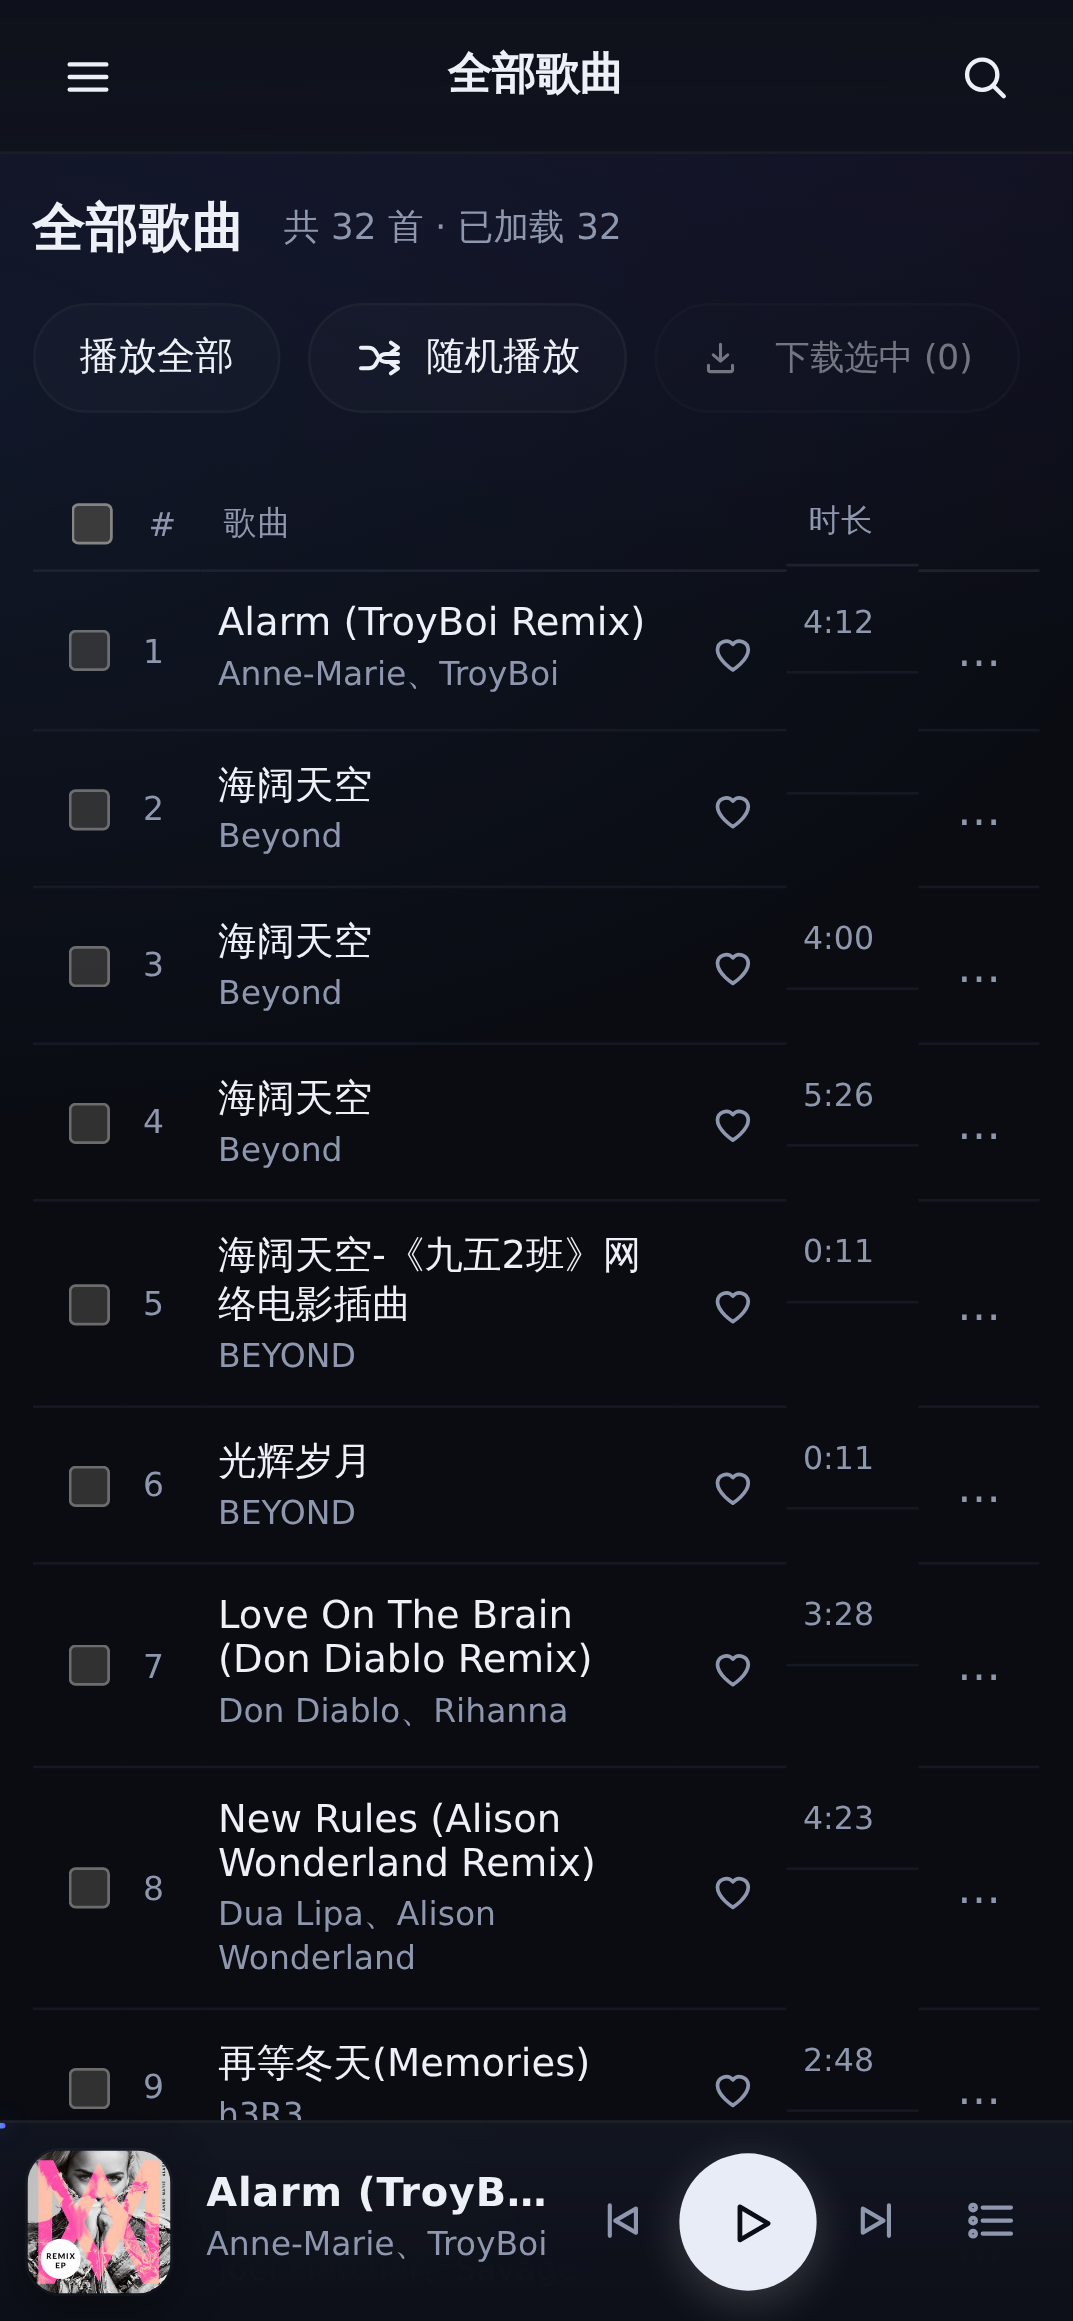
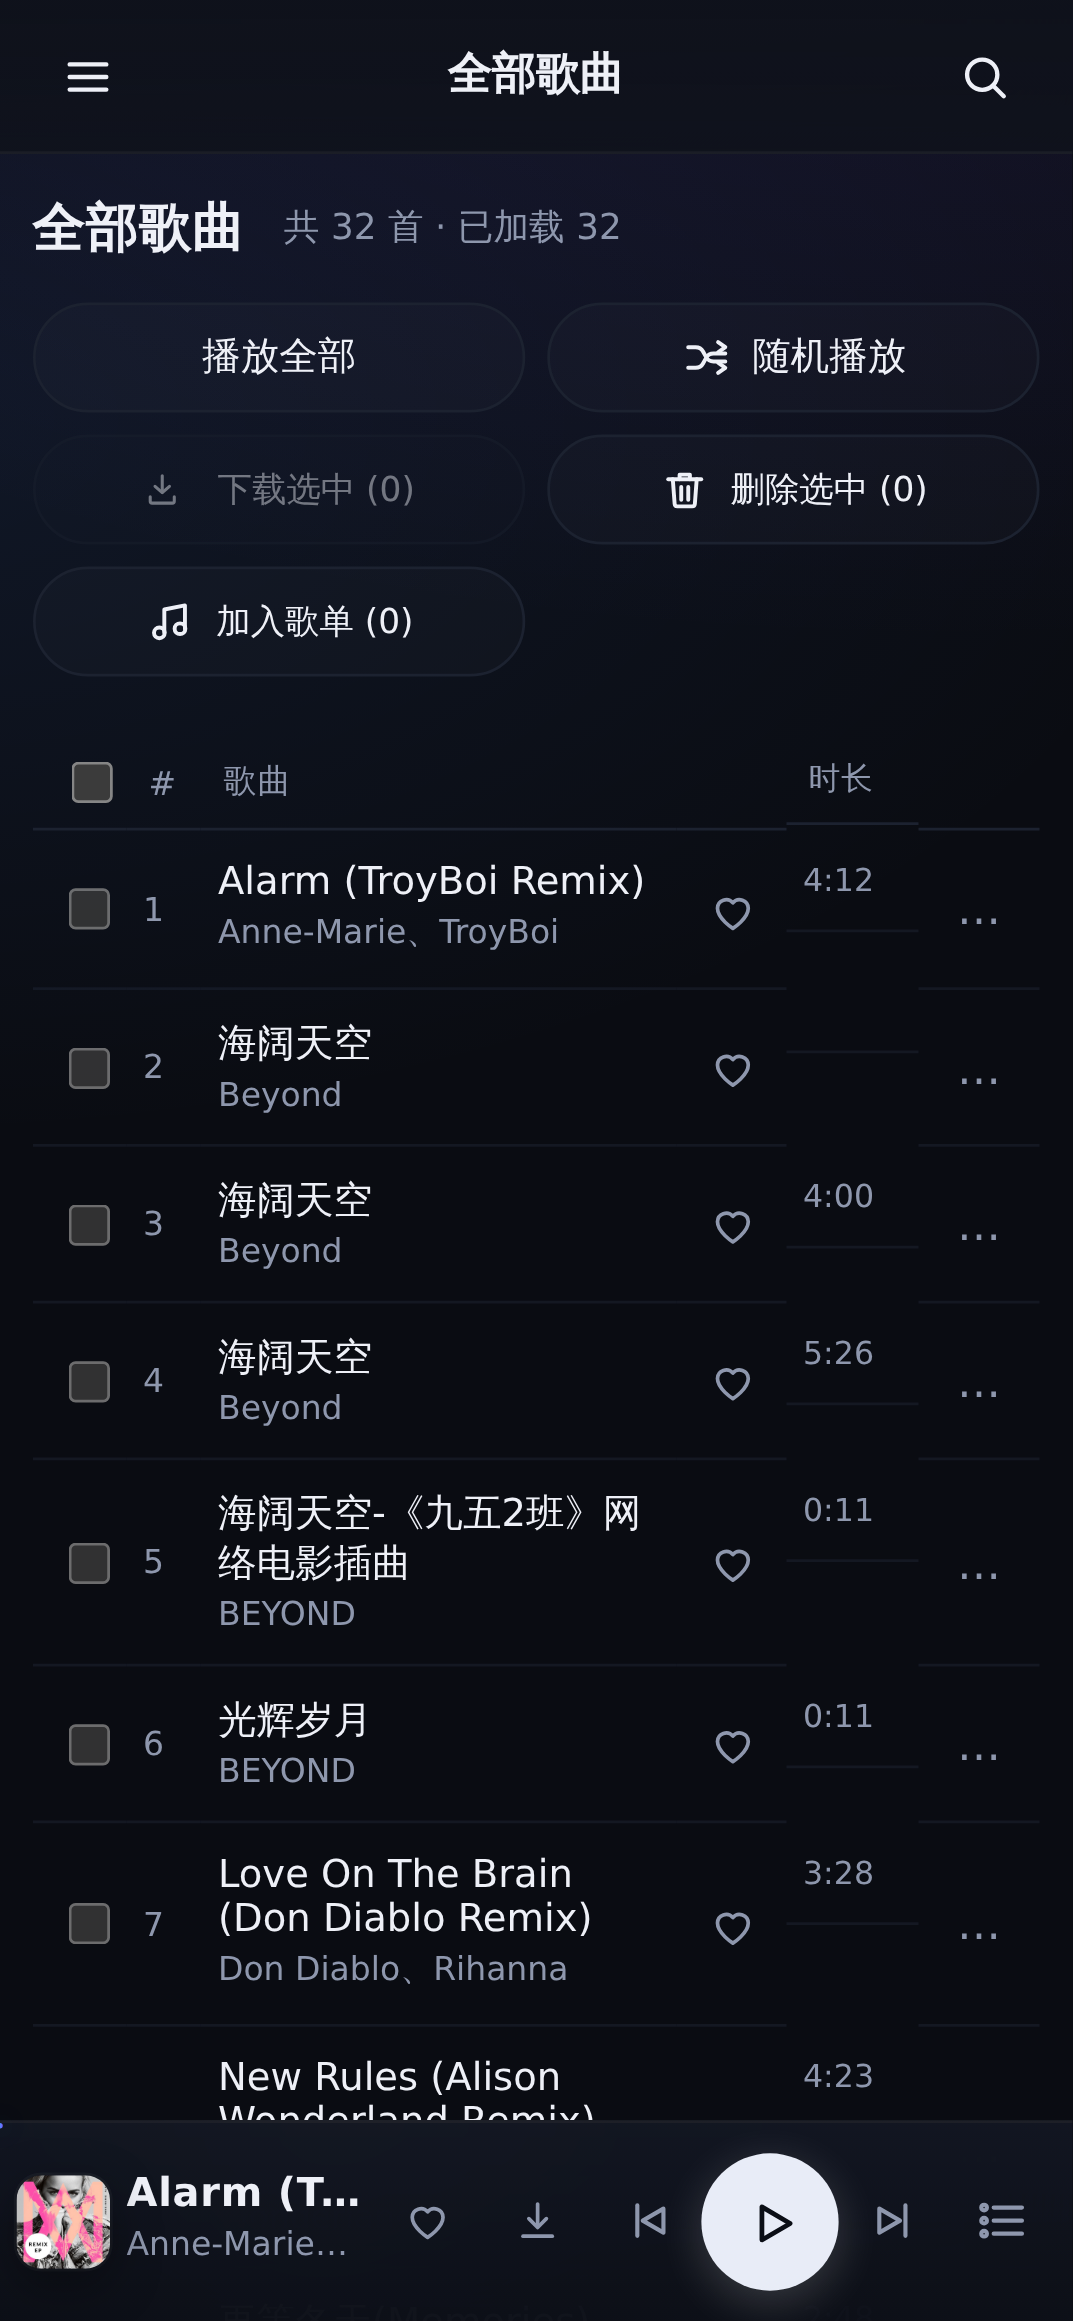
fix(ui): 手机端底栏保留收藏/下载改压封面、页头按钮改回两列网格
按主人 2026-09-15 的两处反馈调整（此前两案都曾提请确认）：

- 底栏（≤480px）：不再把 #np-love / #np-download 藏进播放页，改为压缩封面 +
  收紧间距把宽度还给歌名。实测封面 52→34px、.np gap 13→6px、.player 内边距
  18→6px、两键 40→34px、.ctrls gap 2→0；390px 下歌名区 36→86px，414px→110px。
  ≤380px 再压一档（封面 30px、.np gap 5、传输键 36/42），360px 歌名区 81px，
  320px 41px——320px 是 4 传输键 + 2 功能键并存的物理下限，再宽只能靠砍按钮。
  两键压到 34px 但仍守 e2e-responsive.py 的 34px 触控下限。
  .np-eq 角标随封面缩到 17px，否则会盖住半个封面。
- 页头操作按钮组（≤560px）：单行横滑改回等宽两列网格（grid 2×N，gap 8px），
  按钮一眼看全不必横向找；单按钮页面用 :only-child 占满整行。实测 5 个按钮
  排 3 行、每行 2 个（390px 每格 179px，320px 144px），scrollWidth==clientWidth
  不再横向滚动，页头高度代价 40→136px（主人已接受）。

- e2e-responsive.py 增补 12 条断言并改造底栏断言：两列网格不横向滚动 + 每行≤2 个
  + 三种宽度档位的歌名区下限 + 封面压缩上限 + 「底栏保留收藏/下载入口」（防止
  以后有人为了歌名宽度又把按钮藏回去）。96 → 113 通过 / 0 失败；
  tools/e2e-fm.py 45 通过 / 0 失败（回归无影响）。

注意：edit_file 会把整个文件行尾归一化为 LF，app.css 已用 python 转回 CRLF
（CRLF=1131 loneLF=0）后再提交。

diff --git a/ui/app/assets/app.css b/ui/app/assets/app.css
@@ -1012,24 +1012,37 @@ button, .icon-btn, .chip, .btn, .otab { -webkit-user-select: none; user-select: 
 
 /* —— 7.4 手机端操作按钮：等宽两列网格 + 触屏复选框放大 —— */
 @media (max-width: 560px) {
-  /* 批量操作收成单行横滑（与在线源 chips / Tab 同一套手势），不再占三行高度 */
-  /* 注意：横滑容器不能用 flex-end 对齐——溢出到左侧的按钮会滚不到（Chrome 不计入 scrollWidth） */
-  .page-head .btns { width: 100%; flex-wrap: nowrap; justify-content: flex-start; overflow-x: auto;
-    -webkit-overflow-scrolling: touch; scrollbar-width: none; padding-bottom: 2px; }
-  .page-head .btns::-webkit-scrollbar { display: none; }
-  .page-head .btns .btn { flex: 0 0 auto; padding: 9px 16px; min-height: var(--tap); }
+  /* 主人 2026-09-15 决定：不用单行横滑，改回整齐两列 —— 按钮一眼看全，不必在页头里横向找 */
+  /* 用 grid 而非 flex 换行：grid 的行列由轨道决定，不会再出现右对齐参差的阶梯状留白 */
+  .page-head .btns { display: grid; grid-template-columns: repeat(2, minmax(0, 1fr));
+    gap: 8px; width: 100%; justify-content: stretch; }
+  /* 只有一个按钮时占满整行，否则会孤零零地停在左半边 */
+  .page-head .btns > .btn:only-child { grid-column: 1 / -1; }
+  .page-head .btns .btn { width: 100%; padding: 9px 10px; min-height: var(--tap); white-space: nowrap; }
   input[type=checkbox] { width: 18px; height: 18px; }
 }
 
-/* —— 7.5 超窄屏底栏：收藏/下载移入播放页（#lyric-full 各有一个），歌名不再被挤成一两个字 —— */
-@media (max-width: 480px) { #np-love, #np-download { display: none; } }
+/* —— 7.5 ≤480px 底栏：不藏按钮，改用「压缩封面 + 收紧间距」把宽度还给歌名 —— */
+/* 主人 2026-09-15 决定：保留收藏/下载，换压缩封面方案 */
+@media (max-width: 480px) {
+  .player { padding: 0 6px; gap: 4px; }
+  .ctrls { gap: 0; }
+  .np { gap: 6px; }
+  .np-cover { width: 34px; height: 34px; border-radius: 9px; }
+  /* 收藏/下载：压缩但仍守住 34px 触控下限（e2e-responsive.py 的下限断言） */
+  #np-love, #np-download { width: 34px; height: 34px; flex-shrink: 0; }
+  #np-love svg, #np-download svg { width: 17px; height: 17px; }
+  /* 封面缩小后播放中角标按比例收一档，否则会盖住半个封面 */
+  .np-eq { width: 17px; height: 17px; right: -4px; bottom: -4px; }
+  .np-eq i { width: 2.5px; }
+}
 
-/* —— 7.6 320~380px：底栏再压缩一档，歌名区不至于只剩两个字 —— */
+/* —— 7.6 320~380px：封面/间距再压一档，传输键收到 36/42（仍 ≥34px 触控下限） —— */
 @media (max-width: 380px) {
-  .np-cover { width: 46px; height: 46px; border-radius: 11px; }
-  .np { gap: 10px; }
-  .icon-btn { width: 38px; height: 38px; }
-  .icon-btn.play { width: 46px; height: 46px; }
+  .np-cover { width: 30px; height: 30px; border-radius: 8px; }
+  .np { gap: 5px; }
+  .icon-btn { width: 36px; height: 36px; }
+  .icon-btn.play { width: 42px; height: 42px; }
 }
 
 /* —— 8. 横屏手机 / 矮窗口：竖向空间优先 —— */

diff --git a/tools/e2e-responsive.py b/tools/e2e-responsive.py
@@ -77,7 +77,15 @@ METRICS = """() => {
     minTap: taps.length ? Math.min(...taps) : 0,
     shellH: Math.round(document.querySelector('.shell').getBoundingClientRect().height),
     btnsW: br ? Math.round(br.width) : 0,
+    btnsScrollW: btns ? btns.scrollWidth : 0,
+    btnsClientW: btns ? btns.clientWidth : 0,
+    /* 操作按钮组每行最多几个：两列网格下应为 2，横滑/换行布局下会更多 */
+    btnsPerRow: (() => { if (!btns) return 0
+      const c = {}
+      ;[...btns.children].forEach(e => { const t = Math.round(e.getBoundingClientRect().top); c[t] = (c[t] || 0) + 1 })
+      return Math.max(0, ...Object.values(c)) })(),
     npMetaW: (() => { const m = document.querySelector('.np-meta'); return m ? Math.round(m.getBoundingClientRect().width) : 0 })(),
+    npCoverW: (() => { const e = document.querySelector('.np-cover'); return e ? Math.round(e.getBoundingClientRect().width) : 0 })(),
     npLoveVisible: (() => { const e = document.getElementById('np-love'); const r = e.getBoundingClientRect(); return r.width > 0 && r.height > 0 })(),
     avail: Math.round(view.getBoundingClientRect().width),
   }
@@ -140,6 +148,12 @@ def main():
                   'doc=%s main=%s' % (m['docOverflow'], m['mainOverflow']))
             check('%s 操作按钮组不超宽' % label, m['btnsW'] <= m['avail'] + 1,
                   'btns=%s avail=%s' % (m['btnsW'], m['avail']))
+            if w <= 560:
+                check('%s 操作按钮组不横向滚动（改回两列网格）' % label,
+                      m['btnsScrollW'] <= m['btnsClientW'] + 1,
+                      'scroll=%s client=%s' % (m['btnsScrollW'], m['btnsClientW']))
+                check('%s 操作按钮每行最多两个（等宽两列）' % label, m['btnsPerRow'] <= 2,
+                      'perRow=%s' % m['btnsPerRow'])
             check('%s 底栏不出屏' % label, m['playerBottom'] <= m['vh'] + 1 and m['playerH'] >= 55,
                   'bottom=%s vh=%s h=%s' % (m['playerBottom'], m['vh'], m['playerH']))
             check('%s 内容不被顶栏压住' % label, m['contentTop'] >= m['topbarH'] - 2,
@@ -152,14 +166,28 @@ def main():
             check('%s 抽屉内触控目标 ≥36px' % label, m['sideMinTap'] >= 36, 'min=%s' % m['sideMinTap'])
             check('%s shell 高度铺满视口（dvh）' % label, abs(m['shellH'] - m['vh']) <= 2,
                   'shell=%s vh=%s' % (m['shellH'], m['vh']))
-            if w <= 360:
-                check('%s 底栏歌名区宽 ≥70px（超窄屏下限）' % label, m['npMetaW'] >= 70,
-                      'meta=%s loveHidden=%s' % (m['npMetaW'], not m['npLoveVisible']))
+            # 底栏方案（2026-09-15 主人决定）：收藏/下载保留在底栏，靠压缩封面 + 收紧间距
+            # 给歌名让位。所以下面同时盯「按钮在」「封面被压缩」「歌名够宽」三件事，
+            # 免得以后有人为了歌名宽度又把按钮藏掉。
+            check('%s 底栏保留收藏/下载入口' % label, m['npLoveVisible'], 'love=%s' % m['npLoveVisible'])
+            if w <= 340:
+                # 320px：4 个传输键 + 2 个功能键 + 封面 + 歌名，横向是物理硬约束
+                check('%s 底栏歌名区宽 ≥38px（320 物理下限）' % label, m['npMetaW'] >= 38,
+                      'meta=%s' % m['npMetaW'])
+                check('%s 超窄屏封面已压缩 ≤32px' % label, 0 < m['npCoverW'] <= 32,
+                      'cover=%s' % m['npCoverW'])
+            elif w <= 380:
+                check('%s 底栏歌名区宽 ≥74px' % label, m['npMetaW'] >= 74, 'meta=%s' % m['npMetaW'])
+                check('%s 窄屏封面已压缩 ≤32px' % label, 0 < m['npCoverW'] <= 32,
+                      'cover=%s' % m['npCoverW'])
             elif w <= 480:
-                check('%s 底栏歌名区宽 ≥85px（收藏/下载已移入播放页）' % label, m['npMetaW'] >= 85,
-                      'meta=%s loveHidden=%s' % (m['npMetaW'], not m['npLoveVisible']))
+                check('%s 底栏歌名区宽 ≥80px（压缩封面方案）' % label, m['npMetaW'] >= 80,
+                      'meta=%s' % m['npMetaW'])
+                check('%s 手机封面已压缩 ≤36px' % label, 0 < m['npCoverW'] <= 36,
+                      'cover=%s' % m['npCoverW'])
             else:
-                check('%s 底栏保留收藏入口' % label, m['npLoveVisible'], 'love=%s' % m['npLoveVisible'])
+                check('%s 底栏歌名区宽 ≥150px（横屏/平板）' % label, m['npMetaW'] >= 150,
+                      'meta=%s' % m['npMetaW'])
             page.screenshot(path='tools/resp-%dx%d.png' % (w, h))
             print('      %s: padX=%s 卡片=%s 底栏=%s 侧栏=%s' %
                   (label, m['padX'], m['gridCol'], m['playerH'], m['sidebarW']))
